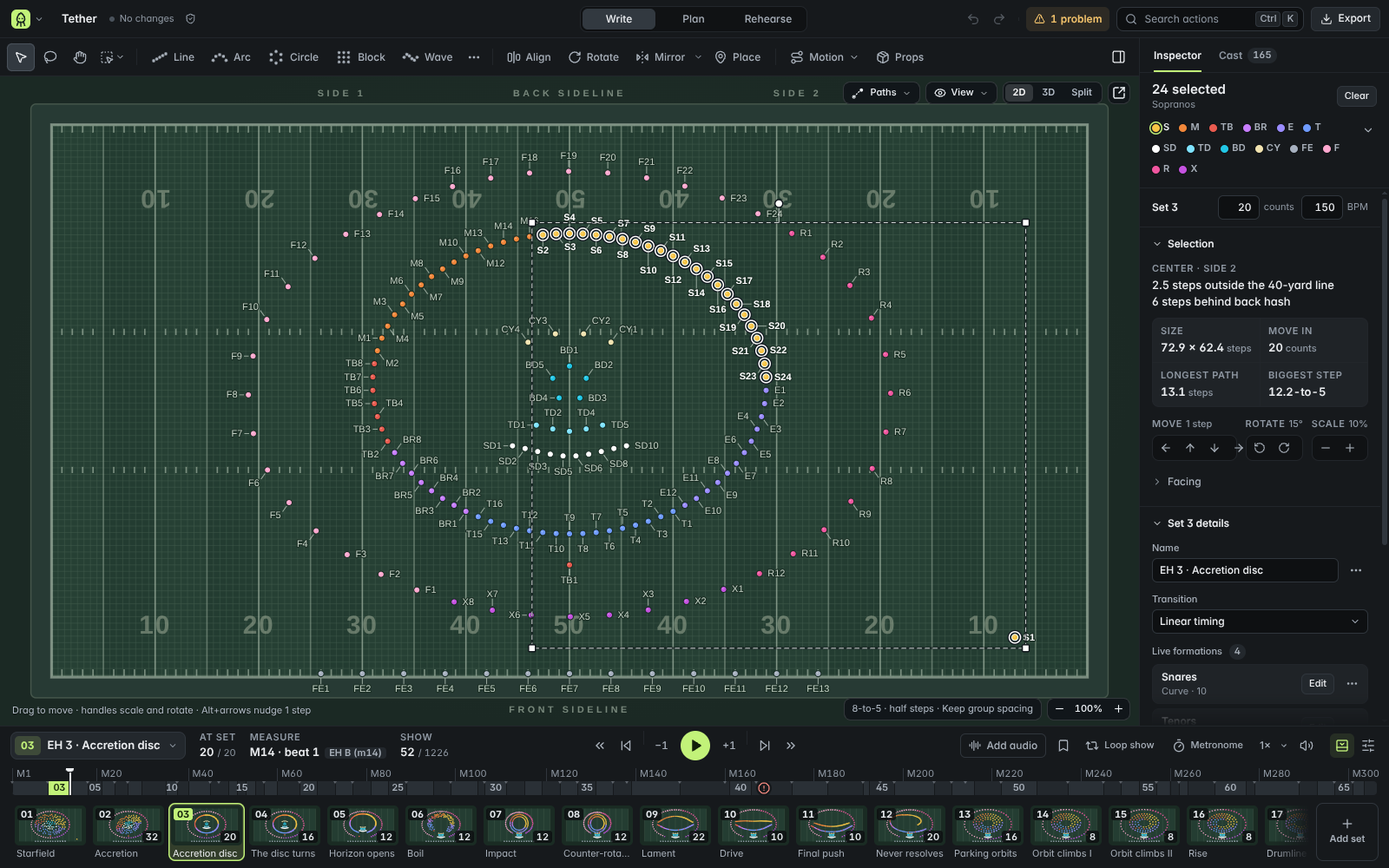
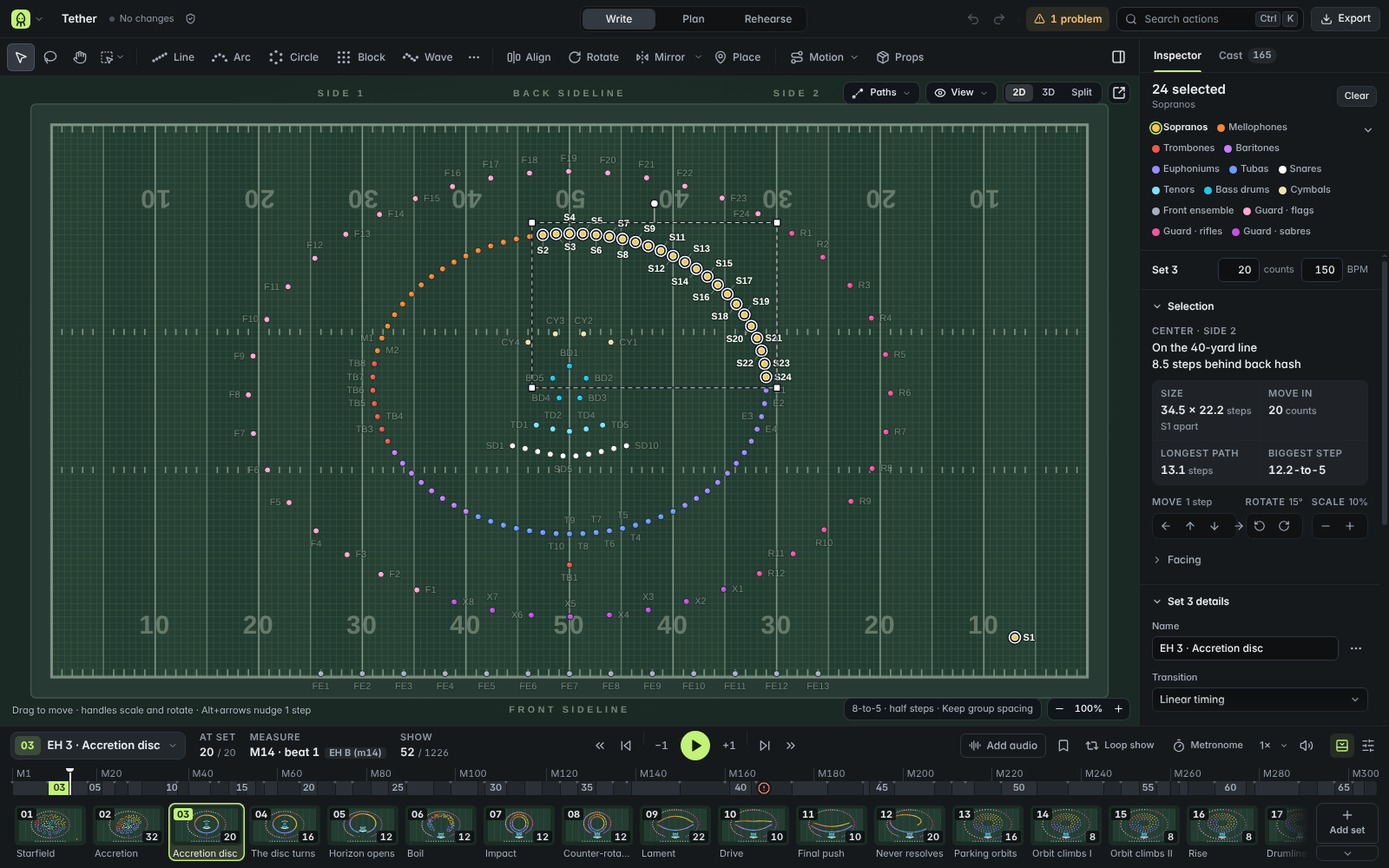
Rewrite the README around what Squidware does for a drill writer
The README now leads with why drill writers use Squidware and walks the
workflow: getting on the field, shaping forms, shaping moves, planning,
catching problems, rehearsing and handing the band their drill. It links
each feature to its guide and points downloads at the Releases page.

The Write view, path editor and a new shape preview screenshot were
recaptured from the production desktop app built at 1dc1ba8; the image
notes and capture metadata record that build. The user guide and set
creation notes describe the one-click Add set.

Claude-Session: https://claude.ai/code/session_016C9BUmfUEENaXUB1DnHyPJ

diff --git a/README.md b/README.md
@@ -1,84 +1,95 @@
 # Squidware
 
-**Find your flow. A desktop drill design studio for marching ensembles.**
+**Write drill the way you think about it. A desktop drill design studio for marching bands, drum corps and indoor ensembles.**
 
-Write formations, refine transitions, rehearse in 3D, and export the next rehearsal packet. Squidware brings the cast, field, musical timeline and production sheet into one local workspace on Windows, macOS and Linux. Free, open source, and no account required.
+Squidware puts the field, the cast, the music and the production sheet in one window. Pick an ensemble and you are moving dots in seconds; shape forms with one click, connect sets in counts, check every move as you write, rehearse it in 3D with the recording, and hand the band a drill book. It runs on Windows, macOS and Linux, keeps your files on your computer, and is free and open source.
 
-[Download v0.6.0](https://github.com/IanSzymanski/squidware/releases/tag/v0.6.0) · [User guide](docs/USER_GUIDE.md) · [Run from source](#run-from-source) · [Roadmap](ROADMAP.md)
+[Download](https://github.com/IanSzymanski/squidware/releases) · [User guide](docs/USER_GUIDE.md) · [Run from source](#run-from-source) · [Roadmap](ROADMAP.md)
 
-> **Release and development:** v0.6.0 is the newest published prerelease. This README and its screenshots show current `main`, including unreleased musical timing, editable travel paths, reusable formations and group route movement. [Run from source](#run-from-source) to use these features.
+![The Tether demo in Squidware's Write mode: 24 sopranos selected with a frame that fits the group, the shape and arrange tools above the field, the selection described in steps in the side panel and every set as a thumbnail below](docs/images/studio.png)
 
-![The Tether demo in Squidware's Write mode: 24 sopranos selected on the field, the shape and arrange tools above it, the selection described in steps in the side panel, and the set strip below](docs/images/studio.png)
+## Why drill writers use it
 
-## Design with precision
+- **It speaks drill.** Positions read as side, yard line and hash ("2.5 steps outside the 40, 6 steps behind back hash"), lengths in steps, step size as 8-to-5 style ratios, time in counts and measures. Type a position the same way: "4 outside the 40, 8 behind the front hash".
+- **The first click is usable.** A new line or arc lands on a whole-step interval, sized to the section you picked, centered on a step, and numbered in Cast order along the form when that keeps paths clear. A soloist standing offstage stays put until you choose to include them.
+- **Everything is one step away.** The verbs of drill writing (Line, Arc, Circle, Block, Wave, Align, Rotate, Mirror, Place) are buttons above the field, and every other command is in a palette that suggests what fits your selection. `Ctrl/⌘ K`, type "move 4 forward", Enter.
+- **Problems surface while you write.** Every move is checked for spacing and step size in the background. Findings read as one line ("R11 and R12 too close · 0 steps apart · Set 40 → 41 · ct 11") with a Go button that takes you to the count and selects the performers.
+- **Rehearse with the music.** The attached recording drives the show clock, with a meter-aware metronome, count-in, rehearsal passages and a full 3D stadium view.
+- **Your show is yours.** No account, no subscription, no cloud. Projects are plain local files with a [published format](format/FORMAT.md), and automatic recovery copies protect work in progress. MIT licensed.
 
-Start with **Tether**, the bundled demo: a full 165-member drum corps show with 67 sets in four movements, written to Squidwriter's Space show with curvilinear forms, scatters, orbiting conveyors, follow-the-leader cables, a counter-march and a company front ([about the demo](examples/README.md)). Or create a blank production and import your cast. The field supports up to **500 performers and 128 sets**.
+## Get on the field fast
 
-| Your next step | Tools in the workspace |
+Open Squidware and pick a starting ensemble: a small, marching or large band, a drum corps, or an indoor floor for winter guard. You land on the field with the cast in a staging block, ready to shape. Or explore **Tether**, the bundled 165-member, 67-set drum corps show written with curvilinear forms, scatters, orbiting conveyors, follow-the-leader cables, a counter-march and a company front ([about the demo](examples/README.md)). Import your own roster from CSV at any time. A production holds up to **500 performers and 128 sets**.
+
+| To | Use |
 | --- | --- |
-| Build the cast | CSV roster import, editable names and sections, and [shared selection between Cast and field](docs/CAST_PANEL.md). |
-| Select the right performers | Individual and additive section selection, marquee and reviewed lasso selection, rank/file selection and [saved groups](docs/SELECTION_TOOLS.md). |
-| Place the picture | Drag, configurable [grids and group snapping](docs/GRID_SNAPPING.md), keyboard nudges and [drill-language coordinate entry](docs/COORDINATE_ENTRY.md). |
-| Shape and refine | Preview [lines, arcs, circles, blocks and waves](docs/FORMATION_PREVIEWS.md), editable Bézier curves and seeded scatter; [rotate, scale and mirror](docs/EXACT_TRANSFORMS.md); set [alignment and exact intervals](docs/SPACING_ALIGNMENT.md). |
-| Connect the sets | Previous/next ghosts and paths, counts and tempo per move, distinct New/Duplicate/Insert/Hold actions, and a [sampled transition split](docs/split-transition.md). |
+| Pick performers | Click a section's name, drag a box, draw a lasso, select a rank or file, or recall a [saved group](docs/SELECTION_TOOLS.md). Cast and field share one selection. |
+| Shape them | Preview a [line, arc, circle, block or wave](docs/FORMATION_PREVIEWS.md), an [editable Bézier curve](docs/bezier-formations.md) or a [seeded scatter](docs/scatter-formations.md). Drag the handles or type interval, width and bulge in steps, then Apply. |
+| Arrange them | Rotate and scale with the frame on the field, [mirror across the 50 or front to back](docs/EXACT_TRANSFORMS.md), [align and space at an exact interval](docs/SPACING_ALIGNMENT.md), or [place by drill coordinates](docs/COORDINATE_ENTRY.md). |
+| Keep a form editable | Save it as a [live formation](docs/live-formations.md) that keeps its shape and member slots, or store it in your [template library](docs/template-library.md) for the next show. |
+| Add the next set | One click on **Add set** holds the current picture for the same number of counts. The arrow under it offers a repeat, a clean staging grid or an insert before. |
 
-Formation, transform and spacing tools preview the result before Apply. Accepted edits use named undo actions; Cancel keeps the original picture.
+![The Tether sopranos previewed as an arc: 23 performers in Cast order at a 2-step interval, the soloist left in place with an Include option, and Cancel and Apply in the tool strip](docs/images/shape-preview.png)
 
-The window is built around the field. A top bar holds the project, the three modes (**Write**, **Plan** and **Rehearse**), undo, problems and command search. One tool strip above the field holds the pointer tools, the shapes (Line, Arc, Circle, Block, Wave), the arrangers (Align, Rotate, Mirror, Place) and the Motion menu; while a preview is open the strip shows what is being previewed with Cancel and Apply. The side panel shows the sections, the selection in drill terms (coordinate, size in steps, counts, travel and step size) and the current set, or the Cast list. Below the field are the transport, a count timeline with problem markers, and every set as a thumbnail. Any command is one search away with `Ctrl/⌘ K`.
+Every shape, transform and spacing edit previews before it changes anything. Apply records one named undo step; Cancel leaves the picture as it was. Ghosts of the previous and next sets and their paths show where each performer comes from and goes.
 
-The layout adapts to window size and UI scale: tool groups fold into Shape and Arrange menus, the side panel opens over the field, and playback options move into **More playback options**. Preferences groups **Appearance**, **Field display**, **Editing** and **Shortcuts**, with dark, light and high-contrast themes. Display and layout choices leave drill geometry unchanged. The [design system](docs/DESIGN_SYSTEM.md) describes the shell, tokens and shared controls.
+## Shape every move
 
-## Shape the movement
+Moves are more than straight lines. Bend one performer's path with handles and watch the count ticks along it; [draw a path freehand](docs/path-authoring.md) and fit it; give a performer [holds and timed stages](docs/movement-schedules.md) inside a move so they leave and arrive on their own counts.
 
-Pause at an arrival set and select one performer to **Edit performer path**. Refine a cubic curve with field handles or exact coordinates, then scrub its count ticks before Apply. **Draw performer path** and **Edit movement timing** preview on the main field with docked parameters and pinned Apply/Cancel controls. Stroke fitting, intermediate anchors, holds and timed submoves let performers depart and arrive independently.
+![Editing soprano 16's path into the Lament set: a curved preview with two numbered handles, count ticks along the path, pinned yard numbers and the position at count 11 described in drill terms](docs/images/travel-path.png)
 
-![An unapplied Bézier travel-path preview for Tether performer S16 into Lament at 2× field zoom, with draggable handles, exact control coordinates, count ticks and Apply/Cancel controls](docs/images/travel-path.png)
-
-| Build on your work | Current tools |
+| For | Squidware gives you |
 | --- | --- |
-| Keep formations editable | [Live formations](docs/live-formations.md) retain shape parameters and member slots. Refine [Bézier curves and waves](docs/bezier-formations.md) or preview [seeded scatter](docs/scatter-formations.md) with spacing constraints. |
-| Arrange your tools | Switch Write, Plan or Rehearse, and save named [personal workspaces](docs/WORKSPACES.md) from the Project menu. |
-| Reuse a starting point | Save anonymous ensemble setups and formation presets in a [personal template library](docs/template-library.md), then preview placement on the current cast. |
-| Compare destinations | [Optimize assignment](docs/assignment-optimization.md) compares travel and movement checks while respecting pins, section slots and explicit role constraints. |
-| Control ensemble travel | Review [formation transitions](docs/formation-transitions.md), or use [shared routes](docs/shared-routes.md) for [follow-the-leader, counter-march and conveyor movement](docs/group-movement.md). Preview connectors, count ticks and spacing/stride findings before committing. |
-
-Path and movement edits use reviewed previews and named undo actions. See [individual path authoring](docs/path-authoring.md) for drawing and handle controls, and [move operations](docs/path-operations.md) for reviewed count resizing, reversal and interval copy/paste.
+| Whole-ensemble travel | [Follow-the-leader, counter-march and conveyor](docs/group-movement.md) movement along [shared routes](docs/shared-routes.md), with delays, intervals and cues. |
+| Form-to-form transitions | [Controlled formation transitions](docs/formation-transitions.md) that morph one live formation into another with shared timing and checks. |
+| Who goes where | Shortest-travel, positional or Cast-order assignment, and an [assignment optimizer](docs/assignment-optimization.md) that compares options with pins and section constraints. |
+| Editing a move after the fact | [Move operations](docs/path-operations.md) to resize counts, reverse a move or copy intervals, and a [transition split](docs/split-transition.md) that adds a set partway through. |
+| Body and equipment | [Performer facing](docs/performer-facing.md), instrument and guard markers, and [choreography cues](docs/USER_GUIDE.md#choreography-cues) such as plié and flag moves by count. |
+| Props and pit | [Staging props](docs/USER_GUIDE.md#staging-props) and front ensemble equipment that move set to set, with optional footprint clearance checks. |
 
 ## Plan the whole show
 
-Edit set names, counts, tempos and notes in the **Production sheet**. Navigate cells with the keyboard or review a CSV/TSV paste before applying the range as one undoable edit. Add pickups, meter changes and rehearsal marks through the **Score map**; measure/beat readouts and the metronome use the same count axis. Preview [tempo ranges, linear BPM ramps and timed fermatas](docs/tempo-map.md) with one undoable Apply; playback and the metronome share the map.
+**Plan** mode gives the production sheet the whole window: every set with its measure, counts, tempo, meter, rehearsal mark and notes. Type straight into the grid, or paste a range from a spreadsheet and review it before it applies. The **Score map** adds pickups, meter changes and rehearsal marks; the **Tempo map** adds tempo changes, ramps and fermatas. Playback, the metronome and every readout follow the same musical timeline.
 
-![Tether's editable Production sheet, showing the opening rows of its 67-set show in Plan mode with notes, incoming counts, base tempos, meters and rehearsal marks](docs/images/production-sheet.png)
+![Tether's production sheet in Plan mode: set numbers with measures, names, counts, tempos, notes, meters and rehearsal marks for a 67-set show](docs/images/production-sheet.png)
 
-Use the set strip to move between sets and reorder them by drag, and the set finder in the transport to search by number or name. The [Production sheet guide](docs/production-sheet.md) and [Score map guide](docs/score-map.md) explain editing and timing rules.
+[Recording anchors](docs/audio-alignment.md) line set arrivals and individual counts up with a variable-tempo recording, with waveform and tap assistance. See the [production sheet](docs/production-sheet.md) and [score map](docs/score-map.md) guides.
 
-## Rehearse and review
+## Catch problems before rehearsal does
 
-Switch from the 2D field to an orbitable **3D preview**, with perspective, front and overhead cameras, or open it in a separate [3D window](docs/USER_GUIDE.md#3d-window) that follows the editor, for example on a second display. Scrub by count, change rehearsal speed, loop the show, or save an annotated passage for a section or selected performers. Attached audio drives the show clock, with a sync offset, meter-aware metronome and count-in. Use [recording anchors](docs/audio-alignment.md) to align set arrivals and individual counts to variable-tempo recordings, with waveform/tap assistance and an undoable preview.
+[Show-wide problems](docs/show-wide-problems.md) checks every move for performers that come too close and steps that are too big, including curved paths and group routes, and keeps checking as you edit. The count in the top bar, markers on the timeline and badges on set thumbnails show where to look; one click takes you to the count with the performers selected and their paths highlighted. [Rules](docs/analysis-rules.md) can differ by section and marching direction and travel with the project. Turn on footprint clearance to check performers against props and pit equipment.
 
-![Squidware's live 3D preview of Tether's Accretion disc set, with 165 section-colored performer markers, camera controls and the shared show timeline in Rehearse mode](docs/images/rehearsal-3d.png)
+## Rehearse it before the band does
 
-[Show-wide problems](docs/show-wide-problems.md) flag minimum spacing and excessive stride and take you to the affected count and performers. Timeline markers group nearby findings so you can review them from the affected move. [Production, section and direction rules](docs/analysis-rules.md) travel with the project. Checks describe performer-center geometry; review physical clearance and traffic separately.
+Switch to **Rehearse** for a 3D stadium view with press-box, front, overhead and perspective cameras, or save your own angles. Open the 3D view in its [own window](docs/USER_GUIDE.md#3d-window) on a second display while you write. A large set-and-count readout serves the back of the room.
 
-## Bring the recording with you
+![Rehearse mode: Tether's Accretion disc set in a 3D stadium from the press-box camera, with section-colored marchers and a large set and count readout](docs/images/rehearsal-3d.png)
 
-**Export** groups field charts and performer coordinate sheets under **PDF drill book**. **Other formats** offers coordinate CSV, the current chart as SVG and **Portable production with audio**. Choose the portable production to bundle the recording in a `.squidpack` file or reference it relative to the package folder. Review the contents and size before export. Opening the package restores its recording and offset; a missing or changed reference offers an explicit relink action while keeping the drill intact.
+Attach the recording and it becomes the show clock, with a sync offset, a meter-aware metronome and a count-in. Change speed, loop the show, or save [rehearsal passages](docs/rehearsal-passages.md) for a section or a few performers. Labels step aside during playback so you see pure form in motion. Render a [rehearsal video](docs/USER_GUIDE.md#export-a-rehearsal-packet) of any set range from any camera, with the recording if you like.
 
-![Portable production export for Tether showing 67 drill sets, a generated recording, a two-second sync offset and the estimated package size before export](docs/images/portable-audio.png)
+## Hand the band their drill
 
-[Portable audio packages](docs/AUDIO_PACKAGES.md) support WAV, MP3, OGG, M4A and FLAC up to 200 MiB, subject to decoder support. Export the package again after edits or relinking.
+**Export** produces what the staff and the ensemble need:
+
+| Output | Contents |
+| --- | --- |
+| PDF drill book | A field chart for every set with counts, tempo and notes, on Letter or A4 |
+| Performer coordinate sheets | A dot book page for every performer with their position at every set in steps |
+| Coordinates CSV | Every performer at every set, with arrival descriptions and timing |
+| Current chart SVG | A scalable drawing of the set on screen |
+| Rehearsal video | A WebM of a set range from a chosen camera |
+| Portable production | The editable show with its recording bundled or referenced, in one `.squidpack` file |
+
+![The portable production export: what the package will hold as a short table, with the recording, its offset and the estimated size](docs/images/portable-audio.png)
+
+## Make it yours
+
+Choose dark, light or high-contrast themes and a UI scale; set dot size, label size and colors on the field; turn the field to face the audience either way. Rebind any shortcut. Save named [workspaces](docs/WORKSPACES.md). Write on a football field, an [indoor floor or a custom stage](docs/USER_GUIDE.md#indoor-floors-and-custom-stages) in feet or meters, with your own floor plan as the background. The interface stays fully usable from small laptop windows to large displays, by keyboard as well as mouse.
 
 ## Get Squidware
 
-The latest downloadable build is **[v0.6.0 — Precise field authoring](https://github.com/IanSzymanski/squidware/releases/tag/v0.6.0)**, a prerelease. Choose the asset for your platform:
-
-| Platform | Download |
-| --- | --- |
-| Windows x64 | [Portable executable](https://github.com/IanSzymanski/squidware/releases/download/v0.6.0/Squidware.0.6.0.exe) |
-| macOS Apple Silicon | [ARM64 disk image](https://github.com/IanSzymanski/squidware/releases/download/v0.6.0/Squidware-0.6.0-arm64.dmg) |
-| Linux x64 | [AppImage](https://github.com/IanSzymanski/squidware/releases/download/v0.6.0/Squidware-0.6.0.AppImage) |
-
-Packages are unsigned. The release includes [SHA-256 checksums](https://github.com/IanSzymanski/squidware/releases/download/v0.6.0/SHA256SUMS.txt). See [all releases](https://github.com/IanSzymanski/squidware/releases) for release notes and available assets; the [release plan](docs/RELEASES.md) tracks upcoming work.
+Download the newest build for your platform from [Releases](https://github.com/IanSzymanski/squidware/releases): a portable `.exe` for Windows x64, a `.dmg` for Apple Silicon Macs, or an AppImage for Linux x64. Every release lists its changes and includes SHA-256 checksums. Builds are not code-signed yet, so the first launch may ask you to confirm the app.
 
 ### Run from source
 
@@ -92,28 +103,21 @@ pnpm exec install-electron
 pnpm desktop
 ```
 
-`pnpm desktop` starts the development server and Electron together. Port 5173 must be available; closing the app stops the server. To run a production build locally:
+`pnpm desktop` starts the development server and Electron together on port 5173. To run a production build locally, use `pnpm build` and then `pnpm start`. `pnpm dev` runs the editor in a browser for renderer work.
 
-```sh
-pnpm build
-pnpm start
-```
+## Your first show in five minutes
 
-3D requires WebGL; the 2D editor remains available if 3D cannot initialize. For browser-only renderer development, use `pnpm dev`; the preview uses downloads and browser printing in place of native file/PDF dialogs. Portable packages use the desktop app.
+1. Open Squidware and pick an ensemble, or explore the demo.
+2. Click a section's name in the side panel, then **Arc** in the tool strip. Adjust it on the field and press Enter to apply.
+3. Click **Add set**. Drag the section somewhere new, or shape it again.
+4. Press Space to watch the move. Attach your recording from the transport to play it with the music.
+5. Save the project, then **Export** a drill book or dot books for the band.
 
-## Your first rehearsal
-
-1. Start a new production from the welcome screen (pick an ensemble size and you are on the field), or explore the demo. Choose a set and click a section in the side panel.
-2. Drag the selection, or click a shape such as Arc to preview a formation. Apply it, then use Undo to compare. Keep it as a live formation to refine it later.
-3. Choose **Add set** at the end of the set strip: a new picture, a duplicate, an insert or a hold. Set its counts, tempo and rehearsal notes.
-4. Select one performer at an arrival set to preview a travel-path edit. Review flagged transitions, attach audio, then play or scrub in 2D or 3D.
-5. Save the editable project and export field charts, performer sheets or a portable audio package.
-
-The [user guide](docs/USER_GUIDE.md) covers the full workflow, including roster import, coordinate conventions and file handling.
+The [user guide](docs/USER_GUIDE.md) walks through the full workflow, from roster import to rehearsal video.
 
 ### Keyboard essentials
 
-Use `Ctrl` on Windows/Linux and `⌘` on macOS. Defaults can be changed in **Preferences → Shortcuts**.
+Use `Ctrl` on Windows and Linux and `⌘` on macOS. Change any of these in **Preferences → Shortcuts**.
 
 | Action | Shortcut |
 | --- | --- |
@@ -127,59 +131,45 @@ Use `Ctrl` on Windows/Linux and `⌘` on macOS. Defaults can be changed in **Pre
 | Save / Save As | `Ctrl/⌘ S` / `Ctrl/⌘ Shift S` |
 | Open / new production | `Ctrl/⌘ O` / `Ctrl/⌘ N` |
 | Toggle 2D / 3D | `T` |
-| Open or focus the 3D window (desktop) | `Shift+T` |
+| Open or focus the 3D window | `Shift+T` |
 
-The field is one Tab stop: arrows move performer focus, Enter/Space selects, and Shift+Enter/Space adds or removes a performer. Editing shortcuts respect text entry. See [commands, drill phrases and rebinding](docs/COMMAND_PALETTE.md).
+The field is one Tab stop: arrow keys move between performers, Enter or Space selects, and Shift adds to the selection. See [commands, drill phrases and rebinding](docs/COMMAND_PALETTE.md).
 
-## Files stay local
+## Your files stay on your computer
 
-The desktop app runs without an account or external service. Automatic recovery and explicit file saves have separate status; use Save for a lasting project copy.
-
-| File or output | What it keeps |
+| File | What it holds |
 | --- | --- |
-| `.squid` | Editable drill, cast, sections, timing, notes and audio offset. Recording bytes and undo history are excluded. |
-| `.squidpack` | Editable production plus bundled audio or a relative recording reference. Export is a snapshot and does not replace the plain Save destination. |
-| Local recovery | Automatic drill recovery copies; keep the package separately for its recording. |
-| PDF / CSV / SVG | Field charts and performer coordinate sheets, coordinate data, or the current field chart. |
+| `.squid` | The editable show: drill, cast, sections, timing, notes and audio offset |
+| `.squidpack` | The editable show with its recording bundled or referenced |
+| Recovery copies | Automatic local copies of your work, reviewable from the Project menu |
+| PDF, CSV, SVG, WebM | Drill books, dot books, coordinate data, charts and rehearsal video |
 
-The public [`.squid` format contract](format/FORMAT.md) includes v1–v13 JSON Schemas, migration examples, a maximum-size fixture and a reference validator. Ordinary saves use schema v2, tempo maps v3, recording alignment v4, [curved performer paths](docs/movement-paths.md) v5, and [independent holds/submoves](docs/movement-schedules.md) v6. [Live formations](docs/live-formations.md) write v7, shared routes v8, editable Bézier formations v9, seeded scatter v10, and [constrained assignment comparisons](docs/assignment-optimization.md) v11. [Controlled formation transitions](docs/formation-transitions.md) combine reusable endpoints, protected individual paths, stagger and shared movement checks using these existing formats. [Group route movement](docs/group-movement.md) adds delayed followers, counter-march cues and arc-length conveyors in v12. [Performer facing and appearance](docs/performer-facing.md) use v13. Current readers open v1–v13 projects. [Package format and path rules](docs/AUDIO_PACKAGES.md) document `.squidpack`.
+The [`.squid` format](format/FORMAT.md) is public, versioned and documented with JSON Schemas, migration examples and a reference validator, and every version of Squidware opens files from earlier ones. See [audio packages](docs/AUDIO_PACKAGES.md) for `.squidpack`.
 
-## Development and verification
+## Built to be trusted
 
-Squidware uses Electron, React, TypeScript and Three.js. Geometry, timing and validation share a [pure engine](docs/domain.md); the editor uses typed commands and named history transactions. The desktop renderer has Node integration disabled and a fixed preload API for native operations.
+Squidware is built with Electron, React, TypeScript and Three.js. Drill geometry, timing and validation live in a [pure engine](docs/domain.md) shared by the editor, the checks and the exports; every edit is a typed command with named undo. The desktop renderer runs isolated from Node with a fixed preload API. More than a thousand unit tests and over fifty desktop workflow suites drive the real app on Windows, macOS and Linux before a release ships.
 
-| Path | Responsibility |
+| Path | Holds |
 | --- | --- |
-| `src/ui/` | Design tokens, shared controls, dialogs, menus and icons ([design system](docs/DESIGN_SYSTEM.md); [what the rebuild changed and why](docs/UI_REBUILD.md)) |
-| `src/shell/` | The application shell: top bar, tool strip, side panel, show strip and welcome |
+| `src/ui/`, `src/shell/` | The [design system](docs/DESIGN_SYSTEM.md) and the application shell ([how the interface was rebuilt](docs/UI_REBUILD.md)) |
 | `src/editor/` | Editor state, commands, feature panels, playback and file sessions |
 | `src/domain.ts` | Geometry, timeline, validation and data exchange |
-| `src/components/` | Interactive 2D field, Three.js rehearsal scene and print output |
-| `electron/` | Isolated native window, file dialogs, atomic saves, packages and recovery |
+| `src/components/` | The 2D field, the Three.js rehearsal scene and print output |
+| `electron/` | The native window, file dialogs, atomic saves, packages and recovery |
 | `scripts/` | Development, validation, packaging and desktop workflow tooling |
 
-Run the checks appropriate to a change:
-
 ```sh
-pnpm test
-pnpm test:contracts
-pnpm build
-pnpm test:native
-pnpm test:workflows
+pnpm test            # unit tests
+pnpm test:contracts  # format and release contracts
+pnpm build           # production build
+pnpm test:workflows  # desktop workflow suites
 ```
 
-`pnpm certify` runs the complete certification plan for the current OS, including packaging and packaged startup. See the [testing guide](docs/TESTING.md) for Python, graphical desktop/Xvfb requirements and focused suites. CI runs source/contracts once and native, desktop and package checks on Windows, macOS and Linux. The [validation policy](docs/VALIDATION_POLICY.md) defines acceptance and release requirements.
-
-To build for the current host, run `pnpm dist --publish never`; Windows also has `pnpm dist:win --publish never`. Outputs go to `release/`. Build each target on its corresponding OS. Signing and automatic updates are not configured.
-
-## Scope and roadmap
-
-Squidware supports standard 100 × 53⅓-yard college/high-school fields, editable straight/cubic performer paths, independently timed holds and submoves, live formations and shared group routes. Linear or eased timing applies within individual travel intervals, and curved parameter speed can vary. Group route motion uses linear counts. The 3D figures are rehearsal markers. Per-set staging props appear in 2D, 3D, field charts and rehearsal video. [Detailed spacing/stride checks](docs/detailed-path-analysis.md) report conservative bounds and confirmed/possible findings for custom paths. Detailed split/rewire operations, proprietary Pyware interchange and cloud collaboration remain roadmap work. See [planned releases](docs/RELEASES.md) and the [implementation queue](docs/IMPLEMENTATION_QUEUE.md).
-
-Squidware is an independent early-stage project and is not affiliated with or endorsed by Pyware or its owners.
+`pnpm certify` runs the full certification for the current OS, including packaging. See the [testing guide](docs/TESTING.md) and the [release plan](docs/RELEASES.md).
 
 ## License and contributions
 
-Licensed under the [MIT License](LICENSE), copyright © 2026 Squidware contributors. You may use, modify and redistribute Squidware, including commercially, while preserving the license and copyright notice. Contributions are provided under the same license; preserve attribution and identify third-party code or assets.
+Squidware is free software under the [MIT License](LICENSE), copyright © 2026 Squidware contributors. Use it, change it and share it, including commercially, keeping the license and copyright notice. Contributions are welcome under the same license. Dependencies keep their own licenses, listed in [THIRD_PARTY_NOTICES.txt](THIRD_PARTY_NOTICES.txt); desktop packages carry them in `resources/legal/`. See the [licensing guide](docs/licensing.md).
 
-Dependencies retain their own licenses in [THIRD_PARTY_NOTICES.txt](THIRD_PARTY_NOTICES.txt). Desktop packages include Squidware, dependency and Chromium notices in `resources/legal/` (`Contents/Resources/legal/` on macOS); keep those files when redistributing. See the [licensing guide](docs/licensing.md).
+Squidware is an independent project and is not affiliated with or endorsed by Pyware or its owners.

diff --git a/docs/images/README.md b/docs/images/README.md
@@ -4,12 +4,15 @@ Captured 2026-11-26 from the production desktop app built at source commit `96b2
 
 All captures use an isolated profile, the included Tether demo (165 performers, 67 sets), dark theme, default UI scale and a 1600 × 1000 content viewport. The production main process, preload and renderer run under Xvfb on Linux. No application styles or displayed UI content were replaced. Each capture waits for the whole-show check to finish, so the problems count in the top bar is the real result. [Capture metadata and image hashes](captures.json) record source/build identity, viewport dimensions, crops, mode, view and cumulative WebGL draw counts. The capture run reported no renderer errors.
 
+[studio.png](studio.png), [shape-preview.png](shape-preview.png) and [travel-path.png](travel-path.png) were recaptured on 2026-11-28 from the production desktop app built at source commit `1dc1ba83d357eaa983c83d557c78b812c90b06cf`, after the drill-writer review rounds changed those screens. Same profile, demo, theme and viewport; the Chromium sandbox was disabled for the Linux container the app ran in. [Capture metadata](captures.json) records that build under `refresh`; the other images keep the 2026-11-26 capture.
+
 | Image | State |
 | --- | --- |
-| [studio.png](studio.png) | Set 3, EH 3 · Accretion disc; 24 Sopranos selected from the side panel; Write mode with the tool strip, the Inspector and the set strip. |
+| [studio.png](studio.png) | Set 3, EH 3 · Accretion disc; 24 Sopranos selected from the side panel; the selection frame fits the group and the Inspector names S1, the offstage soloist, as standing apart. |
+| [shape-preview.png](shape-preview.png) | The same set with the Sopranos previewed as an arc: 23 performers in Cast order at a 2-step interval, 28.5 × 14 steps, centered on the 40; S1 stays in place with an Include option. The preview was canceled after capture. |
 | [production-sheet.png](production-sheet.png) | Plan mode: the editable production sheet showing the opening rows of the 67-set demo with notes, counts, base tempos, meters and rehearsal marks. |
 | [rehearsal-3d.png](rehearsal-3d.png) | Set 3, EH 3 · Accretion disc; Rehearse mode, press-box camera, stadium and detailed shadows. The real Three.js scene was rendered using SwiftShader. |
-| [travel-path.png](travel-path.png) | Set 9, EH 9 · Lament; S16 selected; Edit performer path with a cubic Bézier preview at the dialog's 2× field zoom. Controls are (64.661, 26.662) and (69.946, 23.571) yards, the defaults for this move. The draft was canceled after capture. Cropped around the dialog with a 24 px margin, bounded by the viewport. |
+| [travel-path.png](travel-path.png) | Set 9, EH 9 · Lament; S16 selected; Edit performer path with a curved preview at the dialog's 2× field zoom, handles at (60, 21) and (69, 15.5) yards, the count scrubber at count 11. The draft was canceled after capture. Cropped around the dialog with a 24 px margin. |
 | [portable-audio.png](portable-audio.png) | Export → Portable production with audio; generated 80-second PCM recording and a two-second offset. Cropped around the dialog with a 24 px margin. No private audio was used or committed. |
 
 The screenshots are product illustrations, not additional functional or hardware certification. Desktop workflow acceptance remains in the owning suites documented in [the testing guide](../TESTING.md).

diff --git a/docs/USER_GUIDE.md b/docs/USER_GUIDE.md
@@ -137,7 +137,7 @@ Choose a saved formation to preview it on the selected performers. Saved dot pic
 
 The set strip under the timeline shows every set as a thumbnail card, in show order, with its number, name, counts and the number of problems in the move into it. Select a card to pause playback and jump to its arrival count. **Find set** in the transport searches every set by number or name. Drag a card onto another to reorder, or use Alt+Left and Alt+Right on a focused card. See [the set strip](set-list.md).
 
-**Add set** at the end of the set strip opens a dialog that starts from the current picture. **Hold positions** is selected first; **Duplicate set**, **New set** and **Insert before** are the other choices. Set the counts and tempo, then select **Add set**. The new picture can then be changed independently. When the set strip is hidden, **Add set** is in the transport. See [set creation](SET_CREATION.md).
+**Add set** at the end of the set strip adds the next set in one click: everyone holds the current picture, and the move into it takes the current set's counts. The arrow under it opens the full dialog, with **Hold positions** selected first and **Duplicate set**, **New set** and **Insert before** as the other choices; set the counts and tempo there, then select **Add set**. A hold or a duplicate placed before a move with custom paths or group movement keeps that move, because its performers start from the same spots. The new picture can then be changed independently. When the set strip is hidden, **Add set** is in the transport. See [set creation](SET_CREATION.md).
 
 The Inspector lets you edit the set's counts and tempo at its top, and the set name, transition mode and notes under **Set N details**. Counts describe the move from the preceding set. Tempo is beats per minute for that move. The first set remains a zero-count opening picture.
 

diff --git a/docs/SET_CREATION.md b/docs/SET_CREATION.md
@@ -1,6 +1,6 @@
 # Set creation
 
-Issue [#29](https://github.com/IanSzymanski/squidware/issues/29) separates the former Add/Duplicate operation into four reviewed actions. **Add set**, at the end of the set strip or in the transport when the strip is hidden, opens a dialog that starts from the current picture: **Hold positions** is selected, followed by **Duplicate set**, **New set** and **Insert before**. The Inspector’s **Set actions** menu (**Duplicate set**, **Hold positions**, **Insert set before**), the command palette and shortcuts open the same dialog with the requested action selected. Opening or canceling the dialog does not edit the production; opening pauses playback. Apply selects the created picture and commits one named history entry.
+Issue [#29](https://github.com/IanSzymanski/squidware/issues/29) separates the former Add/Duplicate operation into four reviewed actions. **Add set**, at the end of the set strip or in the transport when the strip is hidden, adds a held set in one click with the current set's counts; if that cannot be done as it is, the dialog opens instead. The arrow under **Add set** opens a dialog that starts from the current picture: **Hold positions** is selected, followed by **Duplicate set**, **New set** and **Insert before**. The Inspector’s **Set actions** menu (**Duplicate set**, **Hold positions**, **Insert set before**), the command palette and shortcuts open the same dialog with the requested action selected. Opening or canceling the dialog does not edit the production; opening pauses playback. Apply selects the created picture and commits one named history entry.
 
 | Action | Placement and positions | Notes and name | New move defaults |
 | --- | --- | --- | --- |

diff --git a/docs/ACTION_CLARITY.md b/docs/ACTION_CLARITY.md
@@ -14,7 +14,7 @@ Implements the product changes in [#36](https://github.com/IanSzymanski/squidwar
 | History | **Project menu → History…** | Lucide History (a clock on a counter-clockwise arrow), distinct from the Undo2/Redo2 arrows; dialog heading **History**. Its Undo/Redo buttons name the action and explain why they are unavailable. **Project menu → Recovery copies…** uses LifeBuoy |
 | Cast | **Cast** tab of the side panel | Tab label with the performer count |
 | Production sheet | **Plan** mode in the top bar | Text mode button; the sheet's accessible name is **Editable production sheet** |
-| Add set | Labeled button at the end of the set strip; an icon button in the transport when the strip is hidden | Plus; opens the **Add set** dialog |
+| Add set | Labeled button at the end of the set strip; an icon button in the transport when the strip is hidden | Plus; adds a held set in one click. The arrow under it opens the **Add set** dialog |
 | Select all | Inspector header and the tool strip's **Select menu** | The Inspector header shows **Select all** with nothing selected and **Clear** (**Clear selection**) otherwise; the Select menu lists both |
 | Previous / next paths | **Travel paths** menu over the field: **Show paths from previous set** and **Show paths to next set** | Custom path glyphs; existing distinct ghosts and path styles retained |
 | Performer labels | **View options** menu over the field | Tags; **Show labels**, **Selected only** and **Hide labels**; the J shortcut still cycles them |
